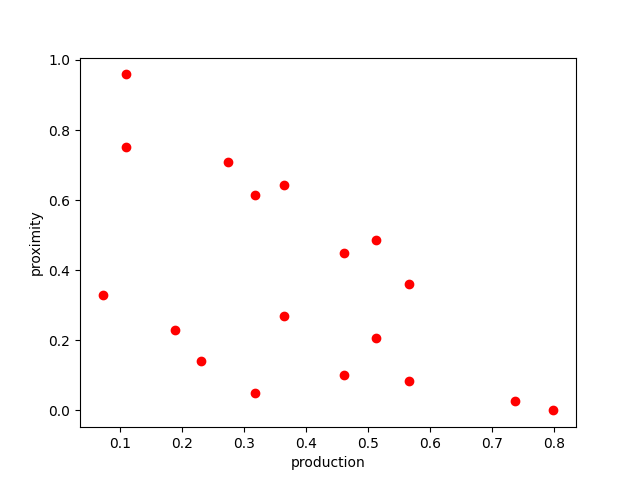
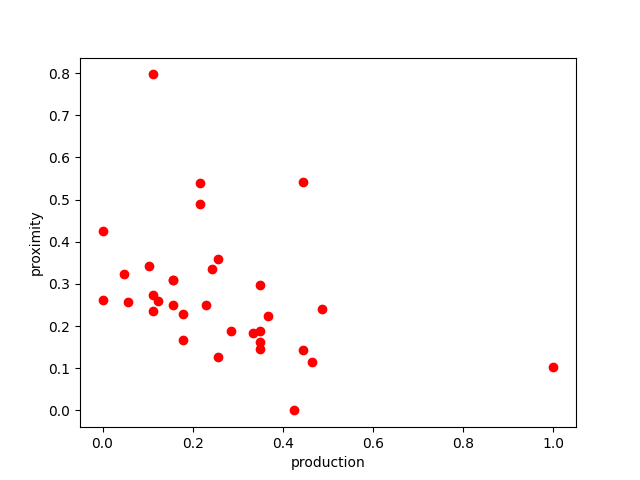
changement dans parento -> ">" devient "<" et reproduction2

diff --git a/main.py b/main.py
@@ -318,7 +318,7 @@ def reproduction2(parent1, parent2):
         parent2: Second solution
     """
     # séparer les doublons
-    double_solutions = set(parent1).intersection(parent2)
+    double_solutions = list(set(parent1).intersection(parent2))
     # combiner les parents
     all_possible_parcels = parent1 + parent2
     # enlever les doublons
@@ -331,10 +331,10 @@ def reproduction2(parent1, parent2):
         else:
             child2.append(parcel)
     # Si l'enfant est vide, ne pas effectuer la reproduction
-    child1, child2 = child1.extend(double_solutions), child2.extend(double_solutions)
+    child1.extend(double_solutions), child2.extend(double_solutions)
     if not child1 or not child2:
+        print('probleme reprodcution 2')
         return None, None
-    print(child1, child2)
     return list(set(child1)), list(set(child2))
 
 
@@ -385,8 +385,6 @@ def mutation_population(population):
                 if cost_bought_plot(solution) > BUDGET:
                     solution.pop(random.randint(0, len(solution) - 1))
     return population
-
-
 def mutation_and_reproduciton_population(population):
     nouvelle_solution_mutee = []
     for solution in population:
@@ -503,9 +501,10 @@ def genetic_algorithm(initial_population_size, iteration):
     initial_population = population_generator(initial_population_size)
     nouvelle_population = initial_population[:]
     for _ in tqdm(range(iteration)):
-        # nouvelle_population = reproduction_population(nouvelle_population)
+        nouvelle_population = reproduction_population(nouvelle_population)
         nouvelle_population = mutation_and_reproduciton_population(nouvelle_population)
         nouvelle_population = selection2(nouvelle_population, initial_population_size)
+    print(nouvelle_population)
     print(" Solution Cost: € {:,}".format(
         cost_bought_plot(nouvelle_population[0])))
     plot_solution(nouvelle_population[0])
